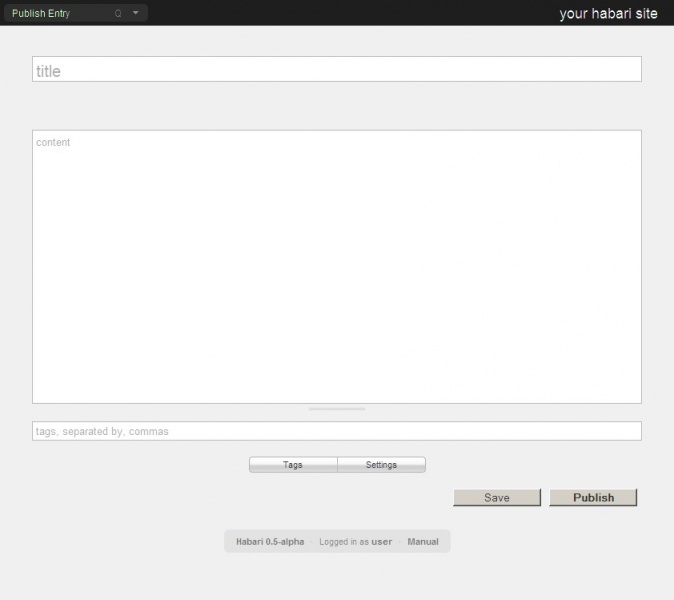
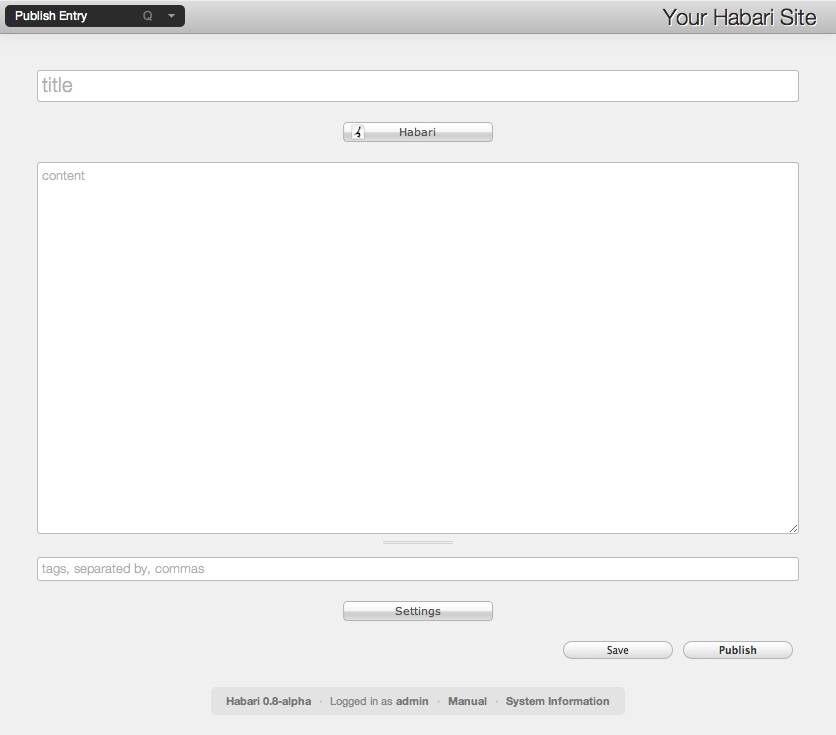
Updated documentation screenshots to correspond with the current trunk view. The next public updating of the documentation is only likely to be with the next release of Habari which will come from trunk as it currently stands.  Also made the images into links so people can view the larger versions o

diff --git a/manual/administration.html b/manual/administration.html
@@ -16,8 +16,7 @@ href='index.xml'/>
 	<a href="installation.html" title="Installation">Installation</a>
 	<a href="upgrading.html" title="Upgrading">Upgrading</a>
 	<a href="using.html" title="Using Habari">Using Habari</a>
-	<a href="developer.html" title="Developer Introduction">Developer
-Introduction</a>
+	<a href="developer.html" title="Developer Introduction">Developer Introduction</a>
 </div>
 
 <div id="wrapper">
@@ -32,8 +31,7 @@ Introduction</a>
 <p>The Dashboard is the first page you see after you log in to Habari's administrative interface. The dashboard can be reached from any page of Habari's administrative interface by choosing <b>Dashboard</b> from the main menu, or by typing <b>Q</b> followed by <b>D</b>.
 </p>
 
-<div class="image"><img alt="Dashboard admin page with default modules" src="dashboard_with_modules.jpg"
-width="300" height="251" class="thumbimage" />
+<div class="image"><a href="dashboard_with_modules.jpg"><img alt="Dashboard admin page with default modules" src="dashboard_with_modules.jpg" width="300" height="251" class="thumbimage" /></a>
 <div class="caption">Dashboard admin page with default modules</div></div>
 
 <p>The dashboard provides a summary of useful information for your site. The top section contains a couple of sentences telling you how long your site has been
@@ -54,8 +52,7 @@ comments you have awaiting moderation.
 <p>To manage your content -- draft or published, entry or page -- select one of the Manage links from the main menu.  Habari creates a main Manage menu item,
 which has a submenu listing each type of content in your system, providing a convenient way to access a specific type of content.  The destination for each of these menu links is, in fact, the same page: the menus merely provide a shortcut to filter the display by the specified content type.
 </p>
-<img alt="Manage Posts page" src="manage_posts.jpg" width="300" height="299"
-class="thumbimage" />
+<a href="manage_posts.jpg"><img alt="Manage Posts page" src="manage_posts.jpg" width="300" height="299" class="thumbimage" /></a>
 <p>Habari strives to make it as easy as possible to find and manage your content.  The first thing to note when visiting the "Manage Content" page is the <b>timeline</b>.
 </p>
 
@@ -89,8 +86,7 @@ class="thumbimage" />
 
 <p>As with posts, the first thing to note when visiting the Comments page is the timeline and the loupe at the top of the page. The timeline works with comments the same way as it does with posts.
 </p>
-<img alt="The Manage Comments page" src="manage_comments.jpg" width="300"
-height="416" class="thumbimage" />
+<a href="manage_comments.jpg"><img alt="The Manage Comments page" src="manage_comments.jpg" width="300" height="416" class="thumbimage" /></a>
 <p>Beneath the timeline are the comments returned by the current filters.  Above the timeline are the search and filter controls, and additional navigation
 controls.  By default, 20 comments will be presented beneath the timeline in reverse chronological order (newest first).  If you have more than 20 items that
 satisfy the filters, you can page forward and backward to see the next or previous set of comments using the "Older" and "Newer" links at the top left and
@@ -124,8 +120,7 @@ the <b>Approved</b> link, and then type in <i>terrific</i>.  Or, manually type i
 <p>To manage your site's tags, select <b>Tags</b> from the main menu, or type <b>Q</b>, then <b>A</b>.
 </p>
 
-<img alt="The Manage Tags page" src="manage_tags.jpg" width="300" height="103"
-class="thumbimage" />
+<a href="manage_tags.jpg"><img alt="The Manage Tags page" src="manage_tags.jpg" width="300" height="103" class="thumbimage" /></a>
 <p>At the very top of the tags page is a <b>search box</b>. After your site has been in use for a period of time, you can have quite a few tags. Use the search
 box to narrow the number of tags which you are viewing.
 </p>
@@ -146,8 +141,7 @@ box to narrow the number of tags which you are viewing.
 </p>
 
 <a name="Options"></a><h4>Options</h4>
-<img alt="Options admin page" src="options.jpg" width="300" height="231"
-class="thumbimage" />
+<a href="options.jpg"><img alt="Options admin page" src="options.jpg" width="300" height="231" class="thumbimage" /></a>
 
 <p>Options for your site include such things as the site title, tagline, number of posts per page, time zone, etc.
 </p>
@@ -160,8 +154,7 @@ class="thumbimage" />
 
 <a name="Themes_2"></a><h4>Themes</h4>
 
-<img alt="Themes admin page" src="manage_themes.jpg" width="300" height="259"
-class="thumbimage" />
+<a href="manage_themes.jpg"><img alt="Themes admin page" src="manage_themes.jpg" width="300" height="259" class="thumbimage" /></a>
 <p>To change your theme select <b>Themes</b> from the main menu, or type <b>Q</b>, then <b>T</b>. This will take you to the Themes page. </p><p>The Themes page is divided into two sections. The top section contains one item, the current active theme. The bottom section contains all the themes that are available for you to use.
 </p>
 
@@ -192,8 +185,7 @@ You can add blocks to your theme by selecting the appropriate <strong>New Block 
 </p>
 
 <a name="Plugins_2"></a><h4>Plugins</h4>
-<img alt="Plugins admin page" src="manage_plugins.jpg" width="300" height="281"
-class="thumbimage" />
+<a href="manage_plugins.jpg"><img alt="Plugins admin page" src="manage_plugins.jpg" width="300" height="281" class="thumbimage" /></a>
 <p>To manage your plugins, select <b>Plugins</b> from the main menu, or type <b>Q</b>, then <b>P</b>. You will be taken to your Plugins page.
 </p>
 
@@ -260,9 +252,7 @@ powers (over the blog, that is) while some users can be restricted to simply wri
 
 <p>Beneath the user listing is a list of all of the defined permissions within the system, with controls to enable or disable access to these permissions for the group.
 </p>
-<img alt="Group admin page showing permissions granted to &#39;admins&#39;
-group." src="group.jpg" width="300" height="414" class="thumbimage"
-/>
+<a href="group.jpg"><img alt="Group admin page showing permissions granted to &#39;admins&#39;group." src="group.jpg" width="300" height="414" class="thumbimage" /></a>
 
 <a name="Permissions"></a><h5>Permissions</h5>
 <p>There are two kinds of permissions within Habari: binary and CRUD:

diff --git a/manual/terms.html b/manual/terms.html
@@ -73,7 +73,7 @@ href="help.html">Getting Help</a>
 <p>By design, Habari by itself has a basic set of capabilities. Plugins add functionality, new capabilities, or additional content types to Habari. Habari includes several out of the box&hellip;
 </p>
 <a name="Timeline_and_Loupe"></a><h4>Timeline and Loupe</h4>
-<img alt="The timeline and loupe" src="timeline.jpg" width="300" height="43" class="thumbimage" />
+<a href="timeline.jpg"><img alt="The timeline and loupe" src="timeline.jpg" width="300" height="43" class="thumbimage" /></a>
 <p>On certain administration pages, the loupe is a sliding, expandable window that operates on the timeline of a group of data. The default position for the loupe is the far right: the most recent items of the collection. The default width of the loupe encompasses 20 items. You can click inside the loupe and drag it left and right across the timeline: this will change the items shown beneath the loupe based on the date range highlighted by the loupe. On the left and right of the loupe are handlebars, which you can click to drag left or right to expand or shrink the size of the loupe: this will increase or decrease the number of items shown below.
 </p><p>The loupe makes it extremely easy to display and select specific timelines of data. You can drag and expand the loupe to display all the items from June of last year to June of this year. Or you can narrow the loupe to only display items from last month, or yesterday.
 </p>

diff --git a/manual/using.html b/manual/using.html
@@ -54,7 +54,7 @@ Ideas</a> | <a href="administration.html">Administration</a> | <a href="help.htm
 <p>You can create your first post by clicking on the main menu, then selecting "Create Entry".
 </p><p>You are now looking at the publish entry page, by default you have three fields into which to enter information.
 </p>
-<img alt="Create Entry admin page" src="create_entry.jpg" width="300" height="267" class="thumbimage" />
+<a href="create_entry.jpg"><img alt="Create Entry admin page" src="create_entry.jpg" width="300" height="267" class="thumbimage" /></a>
 
 <ul><li>The Title box is the name of your entry, this can contain a single word, a sentence, numbers, or symbols producable by your keyboard.  By default, the title you supply will be used to create the URL by which this post will be accessed.
 </li></ul>
